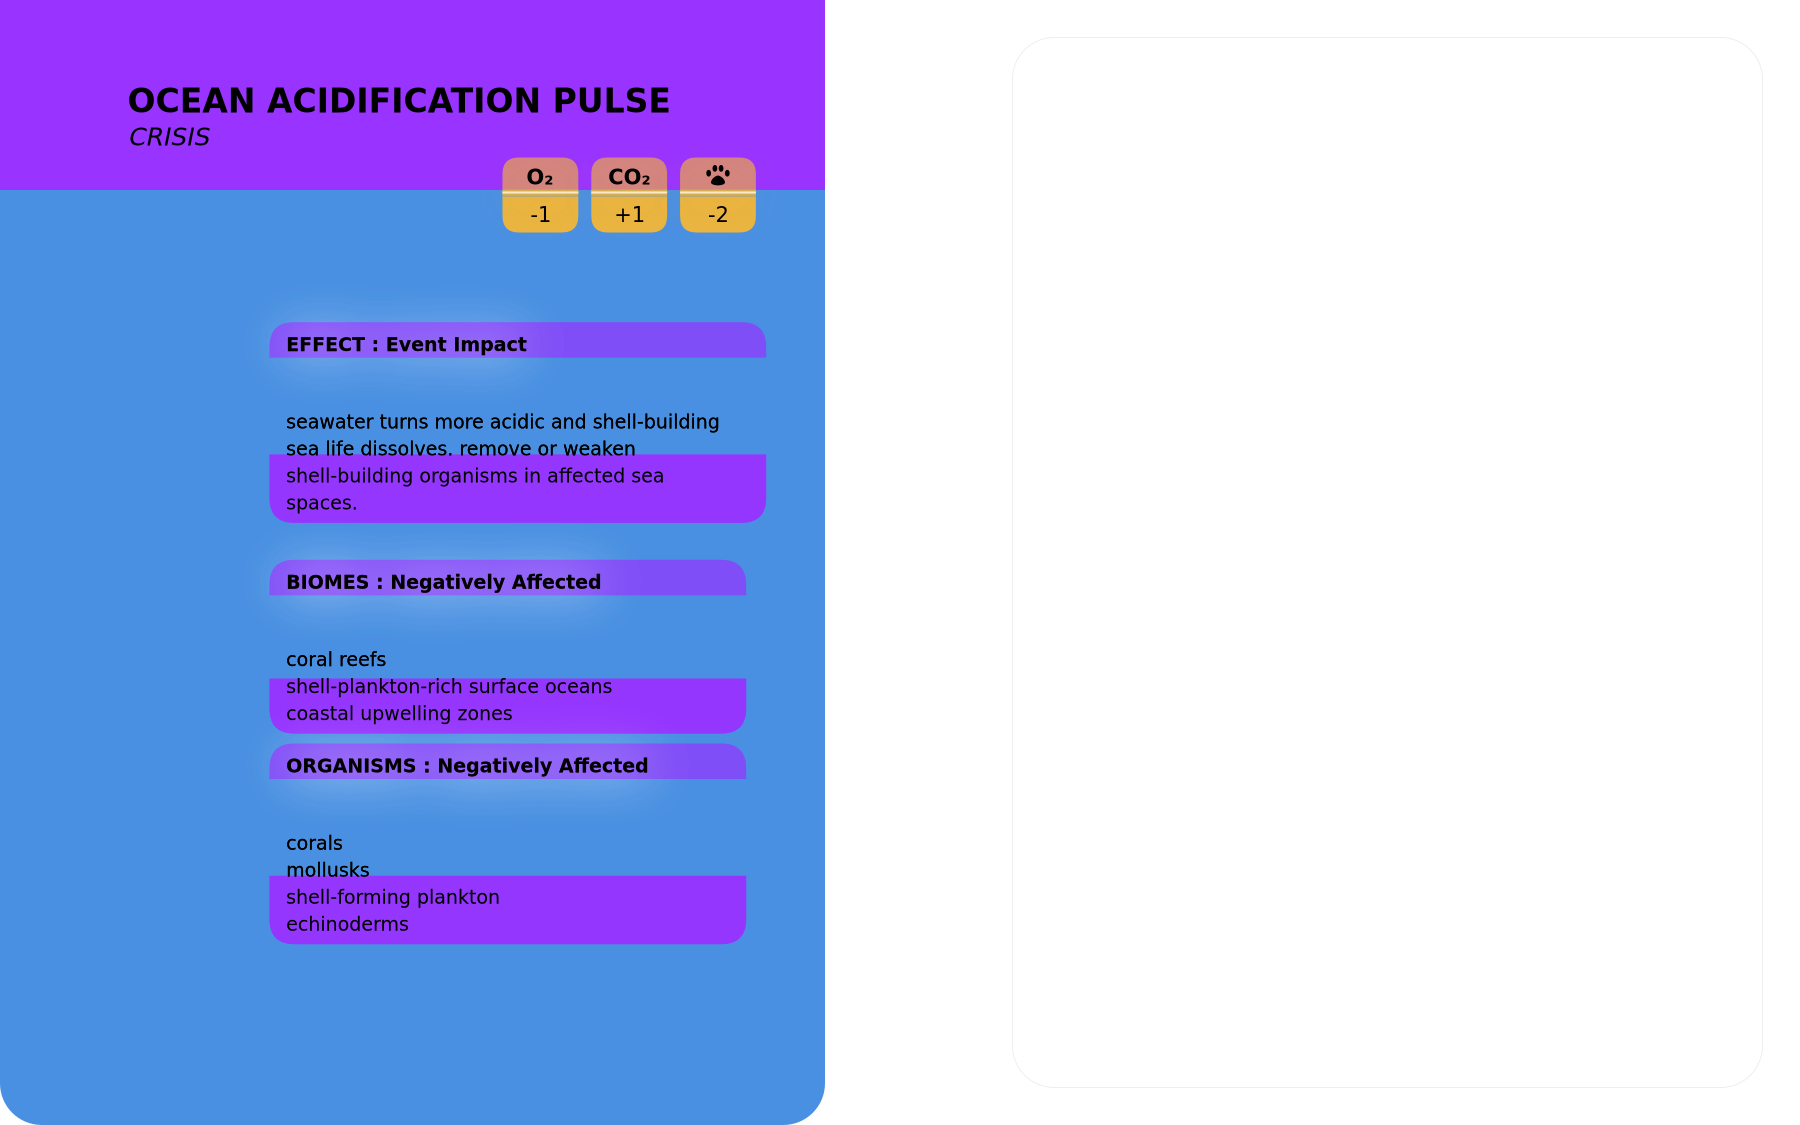
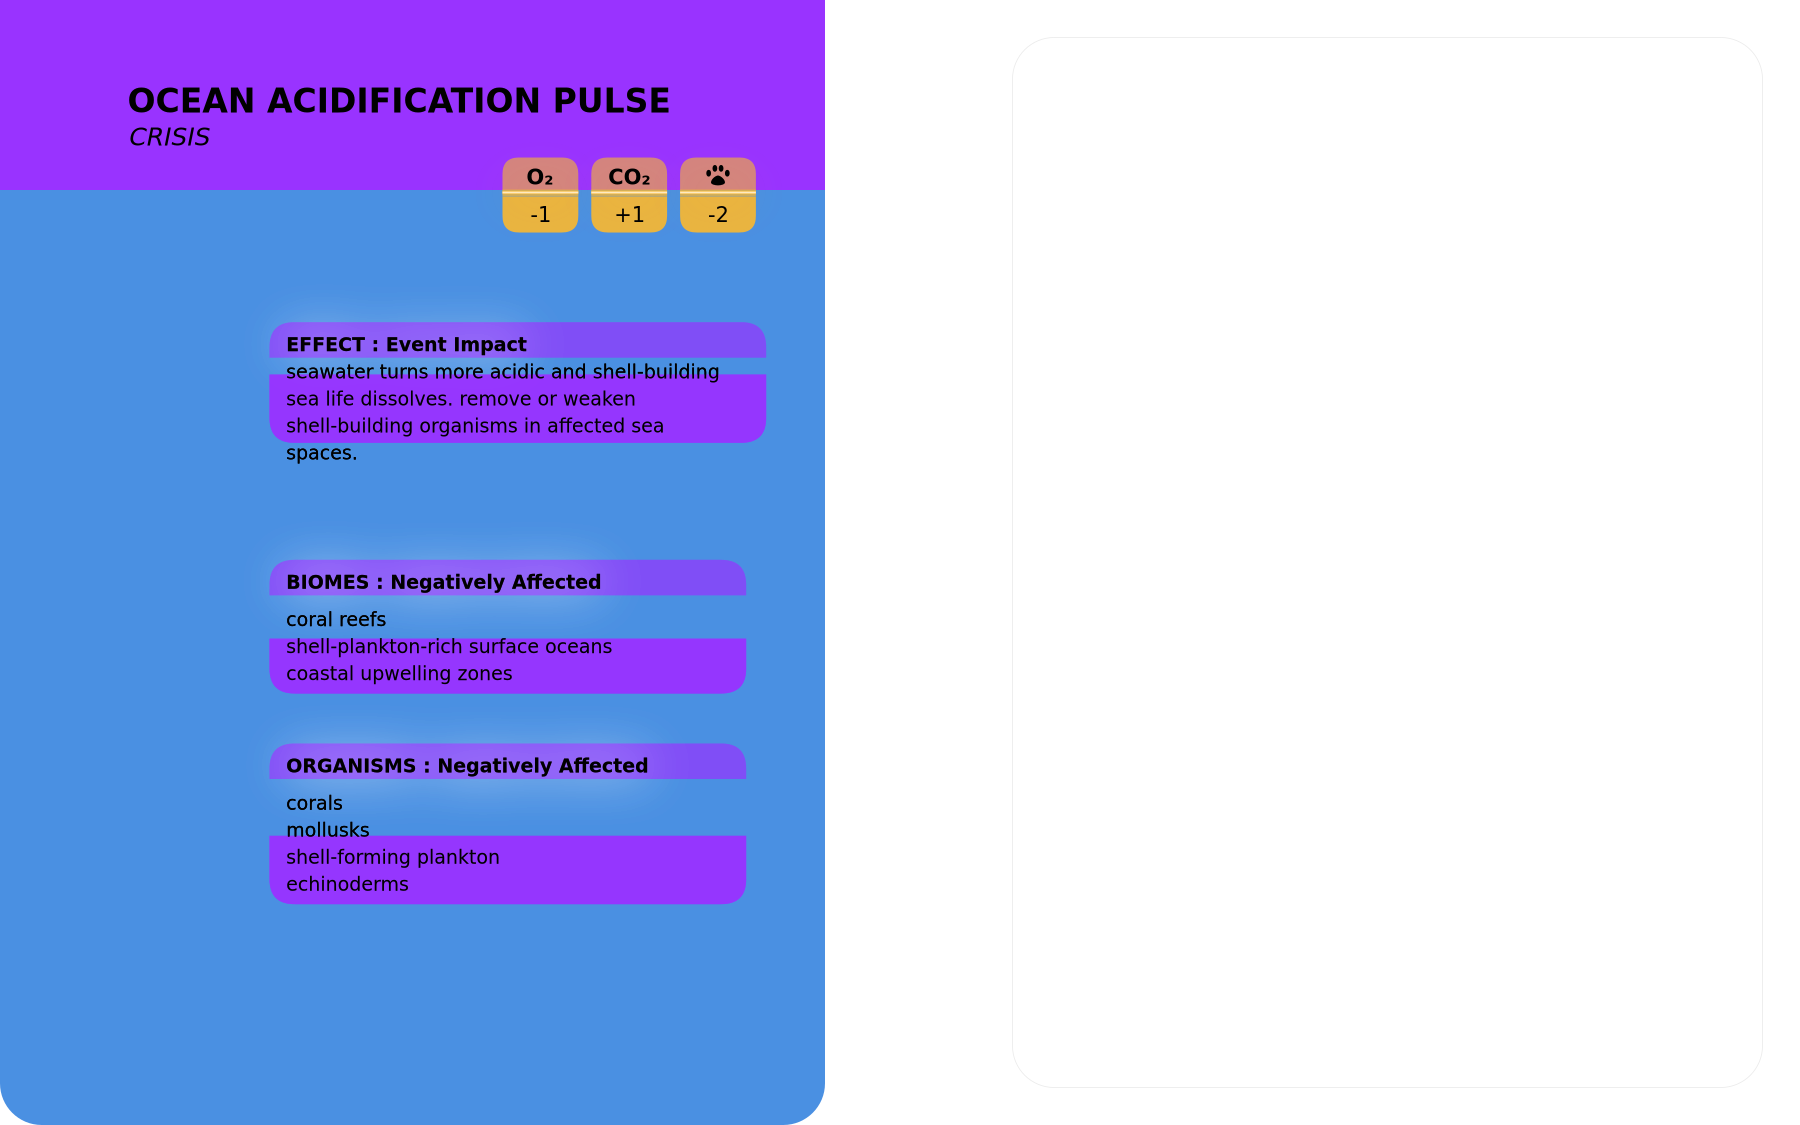
feat: Enhance event card drawing functions with field-specific offsets for improved layout

Changed region(s): [[0.1244, 0.3111, 0.4356, 0.4667], [0.1244, 0.7156, 0.4356, 0.84], [0.1244, 0.5289, 0.4356, 0.6533]]

diff --git a/game/lib/event-cards/draw-bottom-field-background.js b/game/lib/event-cards/draw-bottom-field-background.js
@@ -12,6 +12,7 @@ module.exports = function drawBottomFieldBackground(ctx, {
   scale,
   color,
   titleColor,
+  label,
   sub,
   topBoxH,
   topBgTop,
@@ -22,7 +23,8 @@ module.exports = function drawBottomFieldBackground(ctx, {
   subSize,
   maxWidth = 200,
   hexToRgba,
-  drawBottom
+  drawBottom,
+  extraBottomOffset = 0
 }) {
   const lineGap = Math.round(2 * scale);
   
@@ -30,7 +32,10 @@ module.exports = function drawBottomFieldBackground(ctx, {
   const displaySub = sub ? sub.toLowerCase().replace(/\bma\b/g, 'Ma').replace(/\bga\b/g, 'Ga') : null;
   
   // Gap between top and bottom backgrounds - move bottom background up to completely overlap
-  const gapBetweenBackgrounds = -15; // Negative value moves bottom up to eliminate white strip
+  const gapBetweenBackgrounds = -55; // Negative value moves bottom up to overlap (40px more)
+  
+  // Apply extra field-specific offset (e.g., EFFECT field gets moved up 30px more)
+  const totalBottomOffset = gapBetweenBackgrounds + extraBottomOffset;
   
   // Wrap text and calculate bottom background height (taller to hold all text)
   let wrappedLines = [];
@@ -43,8 +48,8 @@ module.exports = function drawBottomFieldBackground(ctx, {
     bottomBoxH = (wrappedLines.length * (subSize + lineGap)) + (boxPadY * 2) + 20; // 20px extra height
   }
 
-  // Draw BOTTOM background (variable height, dark/opaque, with consistent gap)
-  const bottomBgTop = topBgTop + topBoxH + gapBetweenBackgrounds;
+  // Draw BOTTOM background (variable height, dark/opaque, with consistent gap and field-specific offset)
+  const bottomBgTop = topBgTop + topBoxH + totalBottomOffset;
   
   ctx.save();
   drawBottom(ctx, textX - boxPadX, bottomBgTop, boxW, bottomBoxH, boxRadius, color, hexToRgba, 0.8);
@@ -59,6 +64,7 @@ module.exports = function drawBottomFieldBackground(ctx, {
     subSize,
     lineGap,
     titleColor,
+    label,
     textOffsetY: 10  // Move text down 10px
   });
 

diff --git a/game/lib/event-cards/draw-description-text.js b/game/lib/event-cards/draw-description-text.js
@@ -13,6 +13,7 @@ module.exports = function drawDescriptionText(ctx, {
   subSize,
   lineGap,
   titleColor,
+  label,
   textOffsetY = 0  // Additional offset for positioning
 }) {
   if (wrappedLines.length === 0) {
@@ -22,10 +23,14 @@ module.exports = function drawDescriptionText(ctx, {
   ctx.font = `${subSize}px "DejaVu Sans", sans-serif`;
   ctx.fillStyle = titleColor || '#000000';
   
+  // Apply extra offset for EFFECT field description text only
+  const fieldSpecificOffset = label === 'Effect' ? 30 : 0;
+  const totalTextOffset = textOffsetY + fieldSpecificOffset;
+  
   // Center description vertically in bottom background with optional offset
   const totalDescHeight = wrappedLines.length * (subSize + lineGap) - lineGap;
   const bottomBgCenter = bottomBgTop + (bottomBoxH / 2);
-  const descStartY = bottomBgCenter - (totalDescHeight / 2) + textOffsetY;
+  const descStartY = bottomBgCenter - (totalDescHeight / 2) + totalTextOffset;
   
   wrappedLines.forEach((line, i) => {
     ctx.fillText(line, textX, descStartY + (i * (subSize + lineGap)));

diff --git a/game/lib/event-cards/draw-field-row.js b/game/lib/event-cards/draw-field-row.js
@@ -6,7 +6,7 @@
 const drawTopFieldBackground = require('./draw-top-field-background');
 const drawBottomFieldBackground = require('./draw-bottom-field-background');
 
-module.exports = function drawFieldRow(ctx, { textX, rowY, scale, color, titleColor, label, main, sub, maxWidth, hexToRgba, drawTop, drawBottom, extraWidth = 0 }) {
+module.exports = function drawFieldRow(ctx, { textX, rowY, scale, color, titleColor, label, main, sub, maxWidth, hexToRgba, drawTop, drawBottom, extraWidth = 0, extraBottomOffset = 0 }) {
   ctx.save();
   ctx.textAlign = 'left';
   ctx.textBaseline = 'top';
@@ -44,6 +44,7 @@ module.exports = function drawFieldRow(ctx, { textX, rowY, scale, color, titleCo
     scale,
     color,
     titleColor,
+    label,
     sub,
     topBoxH: topResult.topBoxH,
     topBgTop: topResult.topBgTop,
@@ -54,7 +55,8 @@ module.exports = function drawFieldRow(ctx, { textX, rowY, scale, color, titleCo
     subSize,
     maxWidth,
     hexToRgba,
-    drawBottom
+    drawBottom,
+    extraBottomOffset
   });
 
   ctx.restore();

diff --git a/game/lib/event-cards/functional-category-event.js b/game/lib/event-cards/functional-category-event.js
@@ -34,6 +34,9 @@ module.exports = function drawEventFields(ctx, contentX, contentY, contentW, con
   let currentY = contentY + Math.round(50 * scale);
 
   fields.forEach((field, index) => {
+    // Add extra offset for EFFECT field (first field) - move UP by making it more negative
+    const extraBottomOffset = index === 0 ? -40 : 0;
+    
     drawFieldRow(ctx, {
       textX,
       rowY: currentY,
@@ -45,6 +48,7 @@ module.exports = function drawEventFields(ctx, contentX, contentY, contentW, con
       drawTop,
       drawBottom,
       extraWidth: field.label === 'Effect' ? 20 : 0,
+      extraBottomOffset,
       ...field,
     });
 
